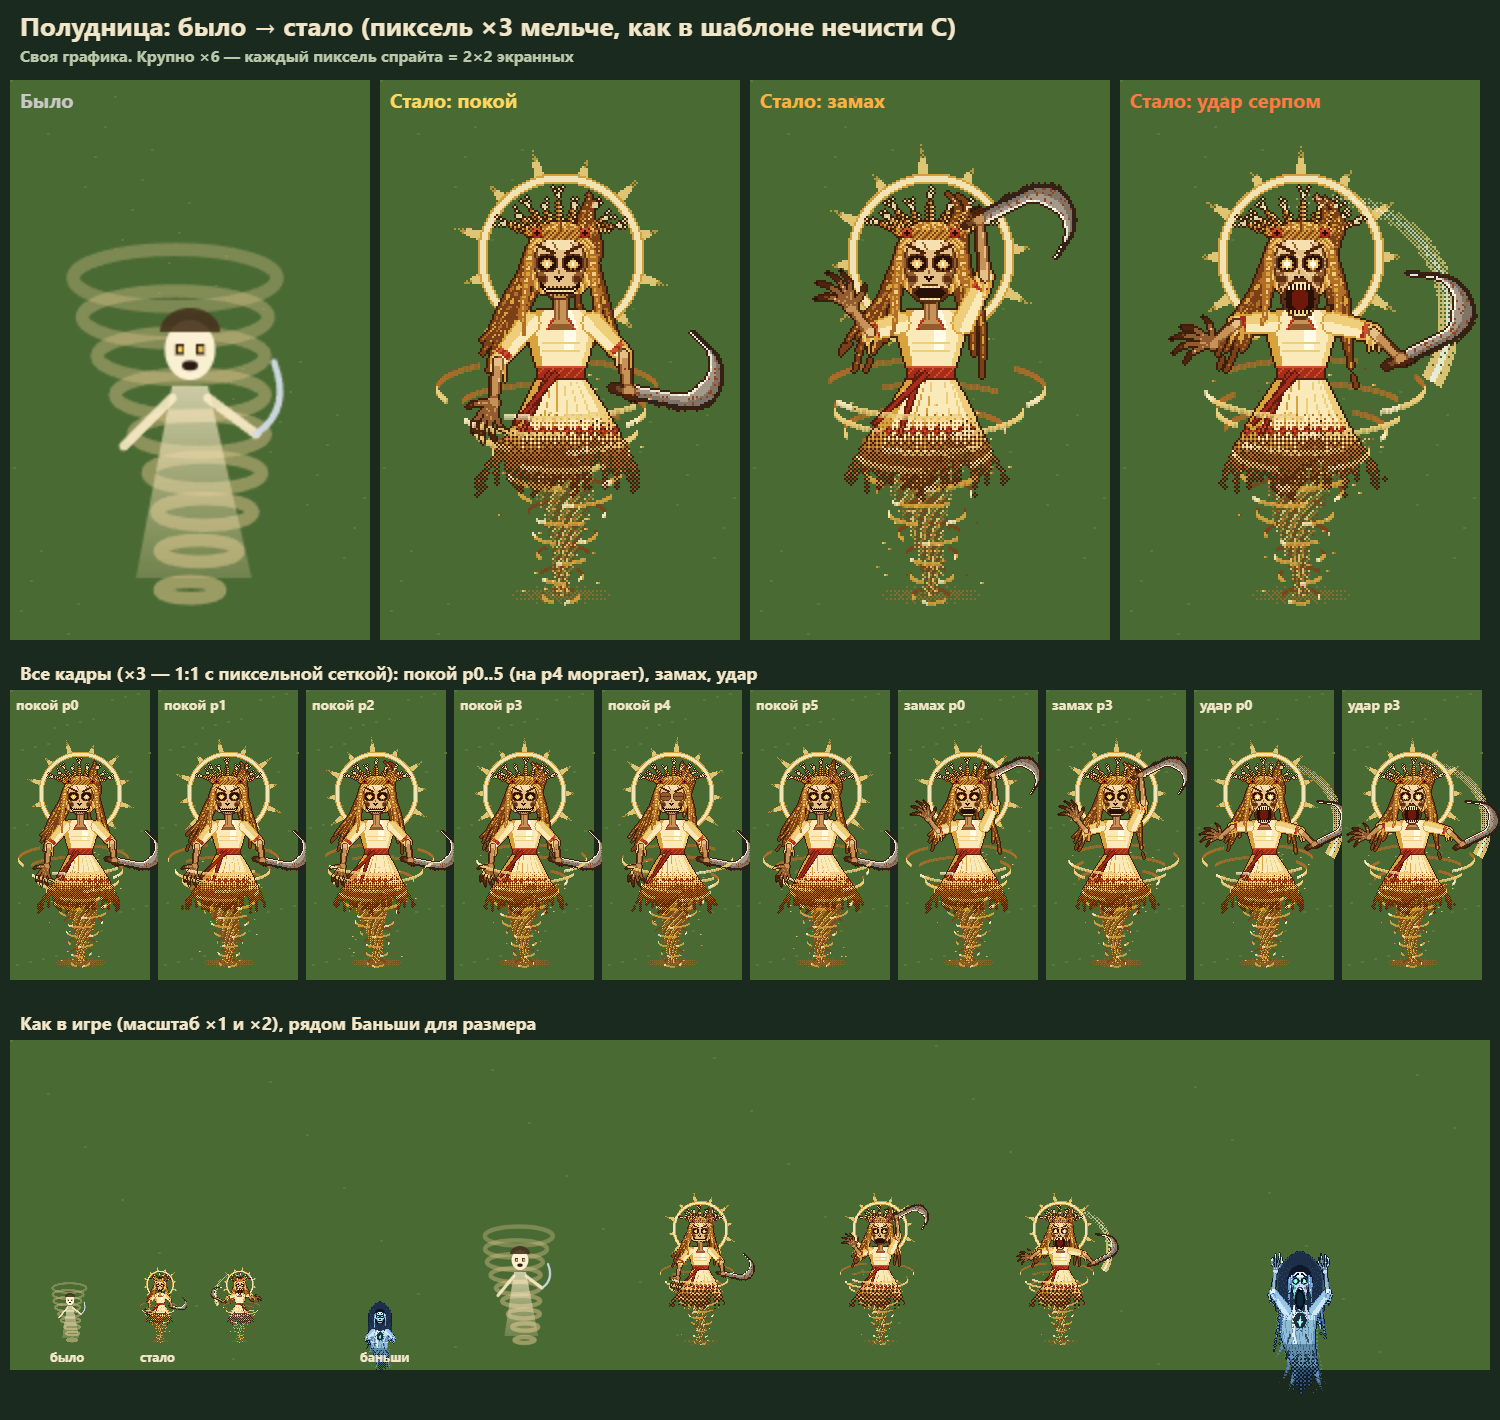
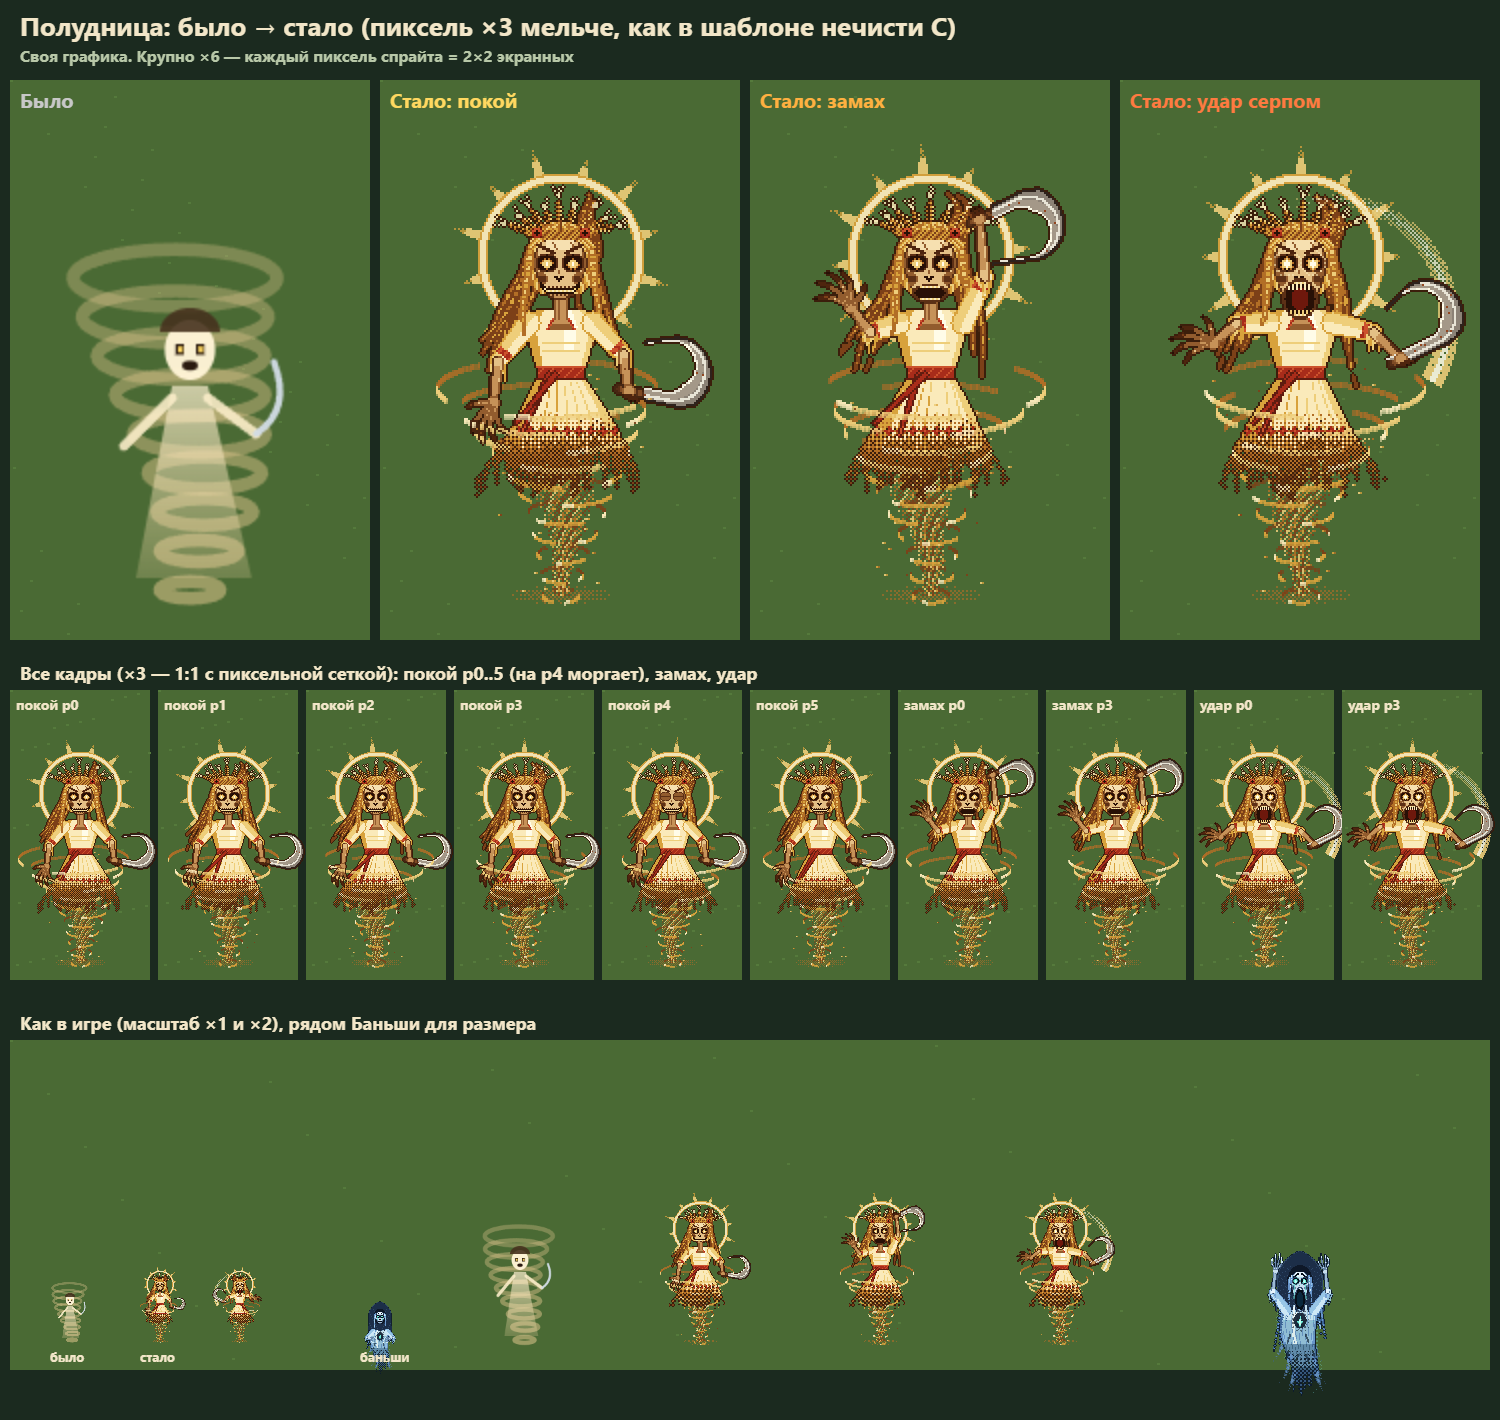
Полудница: классический серп-«вопросик» по второму образцу владельца
- Длинная рукоять с обмоткой и стальная втулка; клинок продолжает рукоять коротким горлом и уходит в дугу ~200°, широкий в начале, к острию тонкий.
- Чистая сталь с бликом вдоль клинка, ржавчины почти нет, зазубрин нет.

diff --git a/js/world/fairy2.js b/js/world/fairy2.js
@@ -842,14 +842,14 @@ function fzNoonPx(lv, p) {
   // серп: рукоять поперёк кулака, от кольца клинок идёт вперёд и закручивается крюком (кривизна растёт к острию), шире всего в первой трети
   const sickle = (hx, hy, a) => {
     const ux = Math.cos(a), uy = Math.sin(a);
-    L(hx - ux * 8, hy - uy * 8, hx + ux * 9, hy + uy * 9, 2.2, 2, (t, e) => e ? [70, 38, 18] : t < 0.08 ? [70, 38, 18] : [118, 70, 34]);   // рукоять
-    L(hx + ux * 8.5, hy + uy * 8.5, hx + ux * 11, hy + uy * 11, 2.8, 2.8, (t, e) => e ? [110, 78, 30] : hsh(t * 9) > 0.5 ? [214, 176, 92] : [168, 128, 56]);   // бронзовая гарда
-    // клинок: ручка → прямой «прямоугольник» ровной ширины → полумесяц (ровная дуга, шире всего в первой трети, к острию сходит на нет);
-    // из двух сторон изгиба берём ту, где острие заворачивает назад к телу
-    const N = 42, NS = 11, RAD = 16, ST = 1.32, blade = sg => {
-      const q = []; let x = hx + ux * 11, y = hy + uy * 11, d = a;
+    L(hx - ux * 5, hy - uy * 5, hx + ux * 13, hy + uy * 13, 2.4, 2.1, (t, e) => e ? [70, 38, 18] : (Math.round(t * 18) % 3 === 0 ? [86, 46, 22] : [126, 74, 36]));   // рукоять с обмоткой
+    L(hx + ux * 12.5, hy + uy * 12.5, hx + ux * 15, hy + uy * 15, 2.6, 2.4, (t, e) => e ? I0 : I1);                                                   // стальная втулка
+    // клинок-«вопросик»: продолжает рукоять коротким горлом и сразу уходит в большую дугу (~200°);
+    // шире всего в начале дуги, к острию сходит на нет; из двух сторон изгиба берём ту, где острие заворачивает назад к телу
+    const N = 44, NS = 4, RAD = 15, ST = 1.3, blade = sg => {
+      const q = []; let x = hx + ux * 15, y = hy + uy * 15, d = a;
       for (let i = 0; i <= N; i++) {
-        const u = Math.max(0, (i - NS) / (N - NS)), w = i <= NS ? 2.6 : u < 0.35 ? 2.6 + u / 0.35 * 2.2 : 4.8 * (1 - (u - 0.35) / 0.65) + 0.3;
+        const u = Math.max(0, (i - NS) / (N - NS)), w = i <= NS ? 2.8 : u < 0.2 ? 2.8 + u / 0.2 * 2.4 : 5.2 * (1 - (u - 0.2) / 0.8) + 0.3;
         q.push([x, y, w]);
         if (i >= NS) d += sg * ST / RAD;
         x += Math.cos(d) * ST; y += Math.sin(d) * ST;
@@ -867,12 +867,13 @@ function fzNoonPx(lv, p) {
         if (dd < best) { best = dd; bo = (ex * dy - ey * dx) / Math.sqrt(l2); bw = w0 + (w1 - w0) * u; bt = (i - 1 + u) / N; }
       }
       const o = -bo * sg, half = bw;                                                 // o > 0 — вогнутая сторона (жало)
-      const jag = bt > 0.03 && bt < 0.55 && Math.floor(bt * 70) % 3 === 0 ? 1.2 : 0;      // зазубрины по обуху
+      const jag = 0;
       if (o > half + 0.5 || o < -half - 0.5 - jag) return null;
       if (o < -half + 0.6) return I0;                                                   // обух
       if (o > half - 0.6) return bt > 0.2 && bt < 0.85 && hsh(px * 3 + py) > 0.55 ? K7 : I3;   // жало блестит на солнце
-      if (hsh(px * 7 + py * 13) > 0.88) return RU;                                       // ржа
-      return o > 0 ? I2 : [128, 116, 102];
+      if (hsh(px * 7 + py * 13) > 0.97) return RU;                                       // редкая ржа
+      if (Math.abs(o + half * 0.25) < 0.7 && bt < 0.8) return I3;                           // блик вдоль клинка
+      return o > 0 ? I2 : [140, 130, 118];
     });
   };
   // дальняя (левая) рука — когтистая пятерня
